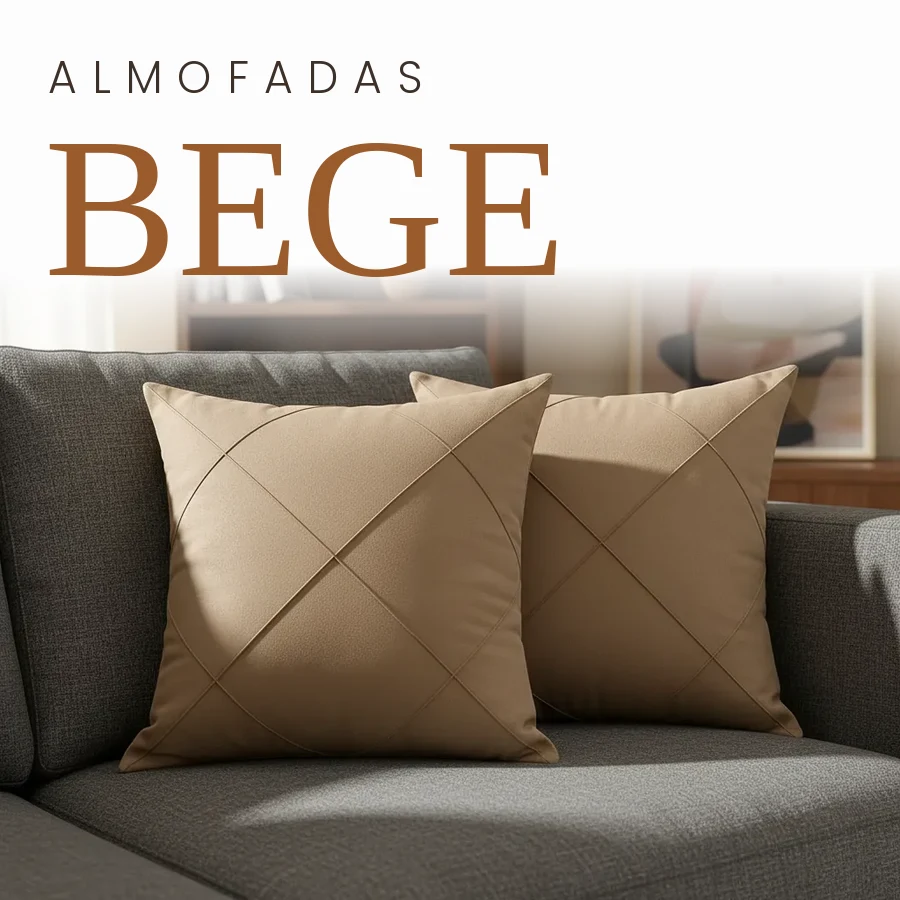
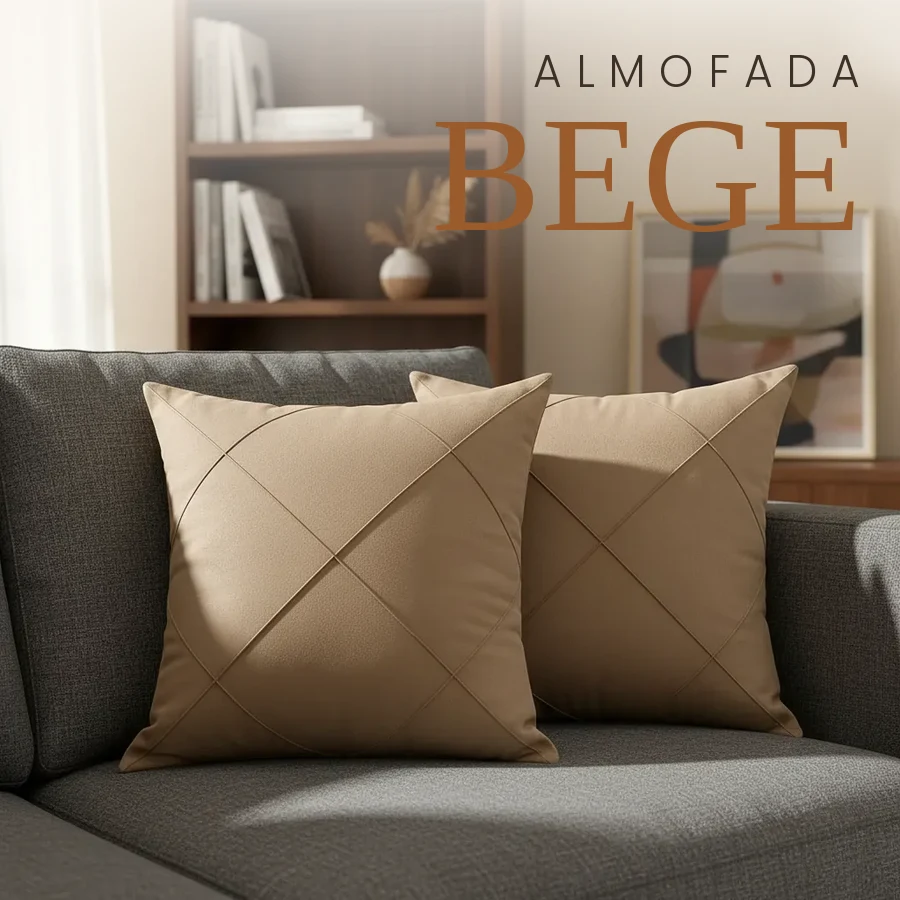
Teste: 5 coleções de almofadas (Bege, Creme, Marrom, Cinza, Rosa) com capas
Claude-Session: https://claude.ai/code/session_01SZqdEpnwpRDSgHAoa6nfgm

diff --git a/index.html b/index.html
@@ -705,12 +705,19 @@ new IntersectionObserver(function(e){hv=e[0].isIntersecting;refresh()},{threshol
 var KEYS=["flara","stella","melina","dalia","ayla","alina","celina","aurora","lumira","magna","renovare","lana","luma","mila","cloe"];
 var COLORS={flara:["Azul", "Preto", "Rosa", "Lilás", "Bege"],stella:["Preto", "Bege", "Cinza", "Vermelho", "Verde"],melina:["Preto", "Marrom", "Azul", "Cinza"],dalia:["Preto", "Marrom", "Bege", "Azul", "Verde"],ayla:["Preto", "Bege", "Cinza", "Laranja", "Grafite"],alina:["Marrom", "Preto", "Cinza", "Bege", "Grafite"],celina:["Cinza", "Marrom", "Bege", "Branco", "Preto"],aurora:["Branco", "Marrom", "Cinza", "Grafite", "Preto"],lumira:["Cinza", "Verde", "Marrom", "Preto", "Branco"],magna:["Bege", "Marrom", "Preto", "Branco", "Verde"],renovare:["Verde", "Marrom", "Preto e Branco", "Misto"],lana:["Bege", "Preto", "Cinza", "Marrom", "Verde"],luma:["Marrom", "Preto", "Bege", "Café", "Verde"],mila:["Branco", "Marrom", "Preto", "Laranja", "Bege"],cloe:["Marrom", "Preto", "Bege", "Verde"]};
 var COLPHOTO={flara:{"Azul": 9, "Preto": 10, "Rosa": 11, "Lilás": 12, "Bege": 13},stella:{"Preto": 9, "Bege": 10, "Cinza": 11, "Vermelho": 12, "Verde": 13},melina:{"Preto": 7, "Marrom": 8, "Azul": 9, "Cinza": 10},dalia:{"Preto": 10, "Marrom": 11, "Bege": 12, "Azul": 13, "Verde": 14},ayla:{"Preto": 9, "Bege": 10, "Cinza": 11, "Laranja": 12, "Grafite": 13},alina:{"Marrom": 9, "Preto": 10, "Cinza": 11, "Bege": 12, "Grafite": 13},celina:{"Cinza": 9, "Marrom": 10, "Bege": 11, "Branco": 12, "Preto": 13},aurora:{"Branco": 8, "Marrom": 9, "Cinza": 10, "Grafite": 11, "Preto": 12},lumira:{"Cinza": 9, "Verde": 10, "Marrom": 11, "Preto": 12, "Branco": 13},magna:{"Bege": 9, "Marrom": 10, "Preto": 11, "Branco": 12, "Verde": 13},renovare:{"Verde": 9, "Marrom": 10, "Preto e Branco": 11, "Misto": 12},lana:{"Bege": 9, "Preto": 10, "Cinza": 11, "Marrom": 12, "Verde": 13},luma:{"Marrom": 9, "Preto": 10, "Bege": 11, "Café": 12, "Verde": 13},mila:{"Branco": 9, "Marrom": 10, "Preto": 11, "Laranja": 12, "Bege": 13},cloe:{"Marrom": 9, "Preto": 10, "Bege": 11, "Verde": 12}};
-/* ===== almofadas ===== */
-var ALM={"alm-losango":{n:"Almofada Losango",sizes:[{n:"Kit com 2 almofadas",w:"",use:"",price:39.90,old:79.90}],colors:["Bege","Cinza","Marrom","Off-white","Preto","Rosê","Terracota"],hex:{"Bege":"#c9a577","Cinza":"#6b6b6b","Marrom":"#4a2f25","Off-white":"#efe6d6","Preto":"#1f1f1f","Rosê":"#b8687a","Terracota":"#c4651f"},first:{"Bege":0,"Cinza":2,"Marrom":5,"Off-white":8,"Preto":11,"Rosê":13,"Terracota":15}}};
-(function(){var l=[];for(var i=1;i<=18;i++)l.push("img/alm-"+(i<10?"0":"")+i+".webp");l.unshift("img/alm-capa-bege.webp");COLL["alm-losango"]=l;COLORS["alm-losango"]=ALM["alm-losango"].colors;COLPHOTO["alm-losango"]=(function(){var o={},f=ALM["alm-losango"].first;Object.keys(f).forEach(function(c){o[c]=f[c]+1});o["Bege"]=0;return o})()})();
+/* ===== almofadas: cada cor é uma coleção ===== */
+var ALMSZ=[{n:"Kit com 2 almofadas",w:"",use:"",price:39.90,old:79.90}];
+var ALM={
+ "alm-bege":{n:"Almofada Bege",color:"Bege",hex:"#c9a577",slug:"bege",files:[1,2]},
+ "alm-creme":{n:"Almofada Creme",color:"Creme",hex:"#efe6d6",slug:"creme",files:[9,10,11]},
+ "alm-marrom":{n:"Almofada Marrom",color:"Marrom",hex:"#4a2f25",slug:"marrom",files:[6,7,8]},
+ "alm-cinza":{n:"Almofada Cinza",color:"Cinza",hex:"#6b6b6b",slug:"cinza",files:[3,4,5]},
+ "alm-rosa":{n:"Almofada Rosa",color:"Rosa",hex:"#b8687a",slug:"rosa",files:[14,15]}};
+function almFile(n){return"img/alm-"+(n<10?"0":"")+n+".webp"}
+Object.keys(ALM).forEach(function(k){var a=ALM[k];a.sizes=ALMSZ;a.cover="img/alm-capa-"+a.slug+".webp";COLL[k]=[a.cover].concat(a.files.map(almFile));COLORS[k]=[a.color];COLPHOTO[k]={};COLPHOTO[k][a.color]=0});
 function isAlm(k){return !!ALM[k]}
-function szOf(k){return ALM[k]?ALM[k].sizes:CONFIG.sizes}
-function almImg(c,k){var n=ALM[k||"alm-losango"].first[c]+1;return"img/alm-"+(n<10?"0":"")+n+".webp"}
+function szOf(k){return ALM[k]?ALMSZ:CONFIG.sizes}
+function almImg(k){return almFile(ALM[k].files[0])}
 var TAB="capas";
 var CARDS_CAPAS=$("cards").innerHTML;
 function setTab(t){
@@ -720,7 +727,7 @@ function setTab(t){
     var al=t==="alm";
     $("pickTitle").innerHTML=al?"Escolha a sua <span>almofada</span>":"Escolha o seu <span>modelo</span>";
     $("pickLead").textContent=al?"Kits com 2 almofadas. Entre, escolha a cor e adicione ao carrinho.":"Entre na coleção, escolha a cor e adicione ao carrinho.";
-    $("cards").innerHTML=al?Object.keys(ALM).map(function(k){var z=ALM[k].sizes[0];return'<div class="mcard" data-m="'+k+'"><button type="button" class="pick" aria-label="Abrir '+ALM[k].n+'"><img alt="'+ALM[k].n+'" src="img/alm-capa-bege.webp"><span class="info"><span class="nm">'+ALM[k].n+'</span><span class="pr">kit com 2 · <b>'+brl(z.price)+'</b></span></span></button><button type="button" class="vercol" data-m="'+k+'">Ver coleção</button></div>'}).join(""):CARDS_CAPAS;
+    $("cards").innerHTML=al?Object.keys(ALM).map(function(k){var z=ALMSZ[0];return'<div class="mcard" data-m="'+k+'"><button type="button" class="pick" aria-label="Abrir '+ALM[k].n+'"><img alt="'+ALM[k].n+'" src="'+ALM[k].cover+'"><span class="info"><span class="nm">'+ALM[k].n+'</span><span class="pr">kit com 2 · <b>'+brl(z.price)+'</b></span></span></button><button type="button" class="vercol" data-m="'+k+'">Ver coleção</button></div>'}).join(""):CARDS_CAPAS;
   }
 }
 function menu(o){$("menu").hidden=!o;$("menuOv").hidden=!o}
@@ -744,7 +751,7 @@ function go(v){if(v==="carrinho")renderCart();setHash(v==="home"?"sobre":(v==="m
 var CART=[];
 try{CART=JSON.parse(localStorage.getItem("navell_cart")||"[]").filter(function(i){return (KEYS.indexOf(i.k)>-1||isAlm(i.k))&&COLORS[i.k].indexOf(i.color)>-1&&szOf(i.k)[i.s]&&i.qty>0})}catch(e){CART=[]}
 function saveCart(){try{localStorage.setItem("navell_cart",JSON.stringify(CART))}catch(e){}window.navellLead&&navellLead("carrinho")}
-function cardImg(k){return document.querySelector('.mcard[data-m="'+k+'"] img').src}
+function cardImg(k){return"img/"+k+"-capa2.webp"}
 function nameOf(k){return isAlm(k)?ALM[k].n:NAMES[KEYS.indexOf(k)]}
 function badge(){
   var n=CART.reduce(function(a,i){return a+i.qty},0);
@@ -754,24 +761,24 @@ function renderCart(){
   var list=$("cartList"),total=0;
   list.innerHTML=CART.map(function(it,i){
     var sz=szOf(it.k)[it.s];total+=sz.price*it.qty;
-    return'<div class="citem"><img alt="" src="'+(isAlm(it.k)?almImg(it.color,it.k):cardImg(it.k))+'"><div class="ci"><h4>'+nameOf(it.k)+'</h4><div class="sub">'+it.color+' · '+sz.n+'</div><div class="row"><span class="qs"><button type="button" data-act="minus" data-i="'+i+'" aria-label="Diminuir">−</button><span>'+it.qty+'</span><button type="button" data-act="plus" data-i="'+i+'" aria-label="Aumentar">+</button></span><span class="price">'+brl(sz.price*it.qty)+'</span></div><button type="button" class="rm" data-act="rm" data-i="'+i+'">Remover</button></div></div>'
+    return'<div class="citem"><img alt="" src="'+(isAlm(it.k)?almImg(it.k):cardImg(it.k))+'"><div class="ci"><h4>'+nameOf(it.k)+'</h4><div class="sub">'+it.color+' · '+sz.n+'</div><div class="row"><span class="qs"><button type="button" data-act="minus" data-i="'+i+'" aria-label="Diminuir">−</button><span>'+it.qty+'</span><button type="button" data-act="plus" data-i="'+i+'" aria-label="Aumentar">+</button></span><span class="price">'+brl(sz.price*it.qty)+'</span></div><button type="button" class="rm" data-act="rm" data-i="'+i+'">Remover</button></div></div>'
   }).join("");
   $("cartEmpty").hidden=CART.length>0;$("cartFoot").hidden=CART.length===0;
   $("cartTotal").textContent=brl(total);
   $("cartPix").textContent="ou "+brl(total*(1-CONFIG.pixDiscount))+" no Pix";
   badge();renderBump(total);
 }
-var bumpColor="Bege";
+var bumpKey="alm-bege";
 function renderBump(){
   var b=$("bumpBox"),has=CART.some(function(i){return isAlm(i.k)}),cov=CART.some(function(i){return !isAlm(i.k)});
   if(!CART.length||has||!cov){b.hidden=true;b.innerHTML="";return}
-  var A=ALM["alm-losango"],z=A.sizes[0];
-  b.hidden=false;b.innerHTML='<div class="bump"><img alt="Almofadas Losango" src="'+almImg(bumpColor)+'"><div class="bt"><small>Aproveite e leve também</small><strong>Kit com 2 almofadas</strong><div class="bc">'+A.colors.map(function(c){return'<button type="button" aria-label="'+c+'" title="'+c+'" aria-pressed="'+(c===bumpColor)+'" data-bc="'+c+'" style="background:'+A.hex[c]+'"></button>'}).join("")+'</div><span><s>'+brl(z.old)+'</s><b>'+brl(z.price)+'</b> · cor '+bumpColor+'</span><br><button type="button" class="bb" id="bumpAdd" style="margin-top:8px">Sim, adicionar</button></div></div>';
+  var z=ALMSZ[0];
+  b.hidden=false;b.innerHTML='<div class="bump"><img alt="'+ALM[bumpKey].n+'" src="'+almImg(bumpKey)+'"><div class="bt"><small>Aproveite e leve também</small><strong>Kit com 2 almofadas</strong><div class="bc">'+Object.keys(ALM).map(function(k){return'<button type="button" aria-label="'+ALM[k].color+'" title="'+ALM[k].color+'" aria-pressed="'+(k===bumpKey)+'" data-bc="'+k+'" style="background:'+ALM[k].hex+'"></button>'}).join("")+'</div><span><s>'+brl(z.old)+'</s><b>'+brl(z.price)+'</b> · cor '+ALM[bumpKey].color+'</span><br><button type="button" class="bb" id="bumpAdd" style="margin-top:8px">Sim, adicionar</button></div></div>';
 }
 $("bumpBox").addEventListener("click",function(e){
-  var c=e.target.closest("[data-bc]");if(c){bumpColor=c.getAttribute("data-bc");renderBump();return}
-  if(e.target.closest("#bumpAdd")){CART.push({k:"alm-losango",color:bumpColor,s:0,qty:1});saveCart();
-    window.navellTrack&&navellTrack("AddToCart",{content_ids:["alm-losango"],content_name:"Almofada Losango (bump)",content_type:"product",contents:[{id:"alm-losango",quantity:1}],value:ALM["alm-losango"].sizes[0].price,currency:"BRL"});renderCart()}
+  var c=e.target.closest("[data-bc]");if(c){bumpKey=c.getAttribute("data-bc");renderBump();return}
+  if(e.target.closest("#bumpAdd")){CART.push({k:bumpKey,color:ALM[bumpKey].color,s:0,qty:1});saveCart();
+    window.navellTrack&&navellTrack("AddToCart",{content_ids:[bumpKey],content_name:ALM[bumpKey].n+" (bump)",content_type:"product",contents:[{id:bumpKey,quantity:1}],value:ALMSZ[0].price,currency:"BRL"});renderCart()}
 });
 $("cartList").addEventListener("click",function(e){
   var b=e.target.closest("button[data-act]");if(!b)return;
@@ -904,7 +911,7 @@ function storyHTML(k){var s=STORY[k];if(!s)return"";var N=s.n,im=s.im;return`
 function openColl(k){
   var list=COLL[k];
   if(!list){toast("A coleção "+nameOf(k)+" chega em breve.");return}
-  cur={k:k,c:-1,s:0};
+  cur={k:k,c:isAlm(k)?0:-1,s:0};
   $("collTitle").textContent=nameOf(k);$("sizesBlk").hidden=isAlm(k);$("collTrust").textContent=isAlm(k)?"Pix ou cartão · Entrega para todo o Brasil":"Brinde: 2 almofadas · Pix ou cartão";var sc=$("collStory");sc.innerHTML=isAlm(k)?"":storyHTML(k);sc.hidden=!sc.innerHTML;
   var t=$("ctrack");
   t.innerHTML=list.map(function(u,i){return'<figure class="slide"><img alt="Foto '+(i+1)+'" src="'+u+'"'+(i?' loading="lazy"':'')+'></figure>'}).join("");

diff --git a/checkout.html b/checkout.html
@@ -209,14 +209,14 @@ h1,h2{font-family:'Oswald',sans-serif;text-transform:uppercase;letter-spacing:.0
 var NAMES={flara:"Flara",stella:"Stella",melina:"Melina",dalia:"Dália",ayla:"Ayla",alina:"Alina",celina:"Celina",aurora:"Aurora",lumira:"Lumira",magna:"Magna",renovare:"Renovare",lana:"Lana",luma:"Luma",mila:"Mila",cloe:"Cloe"};
 var THUMB={flara:"img/flara-capa2.webp",stella:"img/stella-capa2.webp",melina:"img/melina-capa2.webp",dalia:"img/dalia-capa2.webp",ayla:"img/ayla-capa2.webp",alina:"img/alina-capa2.webp",celina:"img/celina-capa2.webp",aurora:"img/aurora-capa2.webp",lumira:"img/lumira-capa2.webp",magna:"img/magna-capa2.webp",renovare:"img/renovare-capa2.webp",lana:"img/lana-capa2.webp",luma:"img/luma-capa2.webp",mila:"img/mila-capa2.webp",cloe:"img/cloe-capa2.webp"};
 var SIZES=[{n:"2 lugares",price:69.90},{n:"3 lugares",price:84.90},{n:"4 lugares",price:99.90}];
-var ALM={"alm-losango":{n:"Almofada Losango (kit com 2)",price:39.90,cores:["Bege","Cinza","Marrom","Off-white","Preto","Rosê","Terracota"],first:{"Bege":1,"Cinza":3,"Marrom":6,"Off-white":9,"Preto":12,"Rosê":14,"Terracota":16}}};
-function almThumb(i){var n=ALM[i.k].first[i.color];return"img/alm-"+(n<10?"0":"")+n+".webp"}
-function unitPrice(i){return ALM[i.k]?ALM[i.k].price:SIZES[i.s].price}
+var ALM={"alm-bege":{n:"Almofada Bege (kit com 2)",cor:"Bege",f:1},"alm-creme":{n:"Almofada Creme (kit com 2)",cor:"Creme",f:9},"alm-marrom":{n:"Almofada Marrom (kit com 2)",cor:"Marrom",f:6},"alm-cinza":{n:"Almofada Cinza (kit com 2)",cor:"Cinza",f:3},"alm-rosa":{n:"Almofada Rosa (kit com 2)",cor:"Rosa",f:14}};
+function almThumb(i){var n=ALM[i.k].f;return"img/alm-"+(n<10?"0":"")+n+".webp"}
+function unitPrice(i){return ALM[i.k]?39.90:SIZES[i.s].price}
 var PIX=0.05;
 var $=function(id){return document.getElementById(id)};
 function brl(v){return v.toLocaleString("pt-BR",{style:"currency",currency:"BRL"})}
 var CART=[];
-try{CART=JSON.parse(localStorage.getItem("navell_cart")||"[]").filter(function(i){return i.qty>0&&(ALM[i.k]?ALM[i.k].cores.indexOf(i.color)>-1:(NAMES[i.k]&&SIZES[i.s]))})}catch(e){}
+try{CART=JSON.parse(localStorage.getItem("navell_cart")||"[]").filter(function(i){return i.qty>0&&(ALM[i.k]?ALM[i.k].cor===i.color:(NAMES[i.k]&&SIZES[i.s]))})}catch(e){}
 if(!CART.length){$("empty").hidden=false}else{$("main").hidden=false}
 
 var sub=CART.reduce(function(a,i){return a+unitPrice(i)*i.qty},0);

diff --git a/api/_catalogo.js b/api/_catalogo.js
@@ -26,7 +26,11 @@ export const SIZES = [
 
 // Almofadas (vendidas em kit com 2). Chave do item no carrinho: 'alm-<modelo>'.
 export const ALMOFADAS = {
-  'alm-losango': { nome: 'Almofada Losango (kit com 2)', price: 39.9, cores: ['Bege', 'Cinza', 'Marrom', 'Off-white', 'Preto', 'Rosê', 'Terracota'] },
+  'alm-bege': { nome: 'Almofada Bege (kit com 2)', price: 39.9, cores: ['Bege'] },
+  'alm-creme': { nome: 'Almofada Creme (kit com 2)', price: 39.9, cores: ['Creme'] },
+  'alm-marrom': { nome: 'Almofada Marrom (kit com 2)', price: 39.9, cores: ['Marrom'] },
+  'alm-cinza': { nome: 'Almofada Cinza (kit com 2)', price: 39.9, cores: ['Cinza'] },
+  'alm-rosa': { nome: 'Almofada Rosa (kit com 2)', price: 39.9, cores: ['Rosa'] },
 };
 
 // Valida os itens e devolve { resumo: ['2x Flara Azul 3 lugares', ...], subtotal } ou null.
